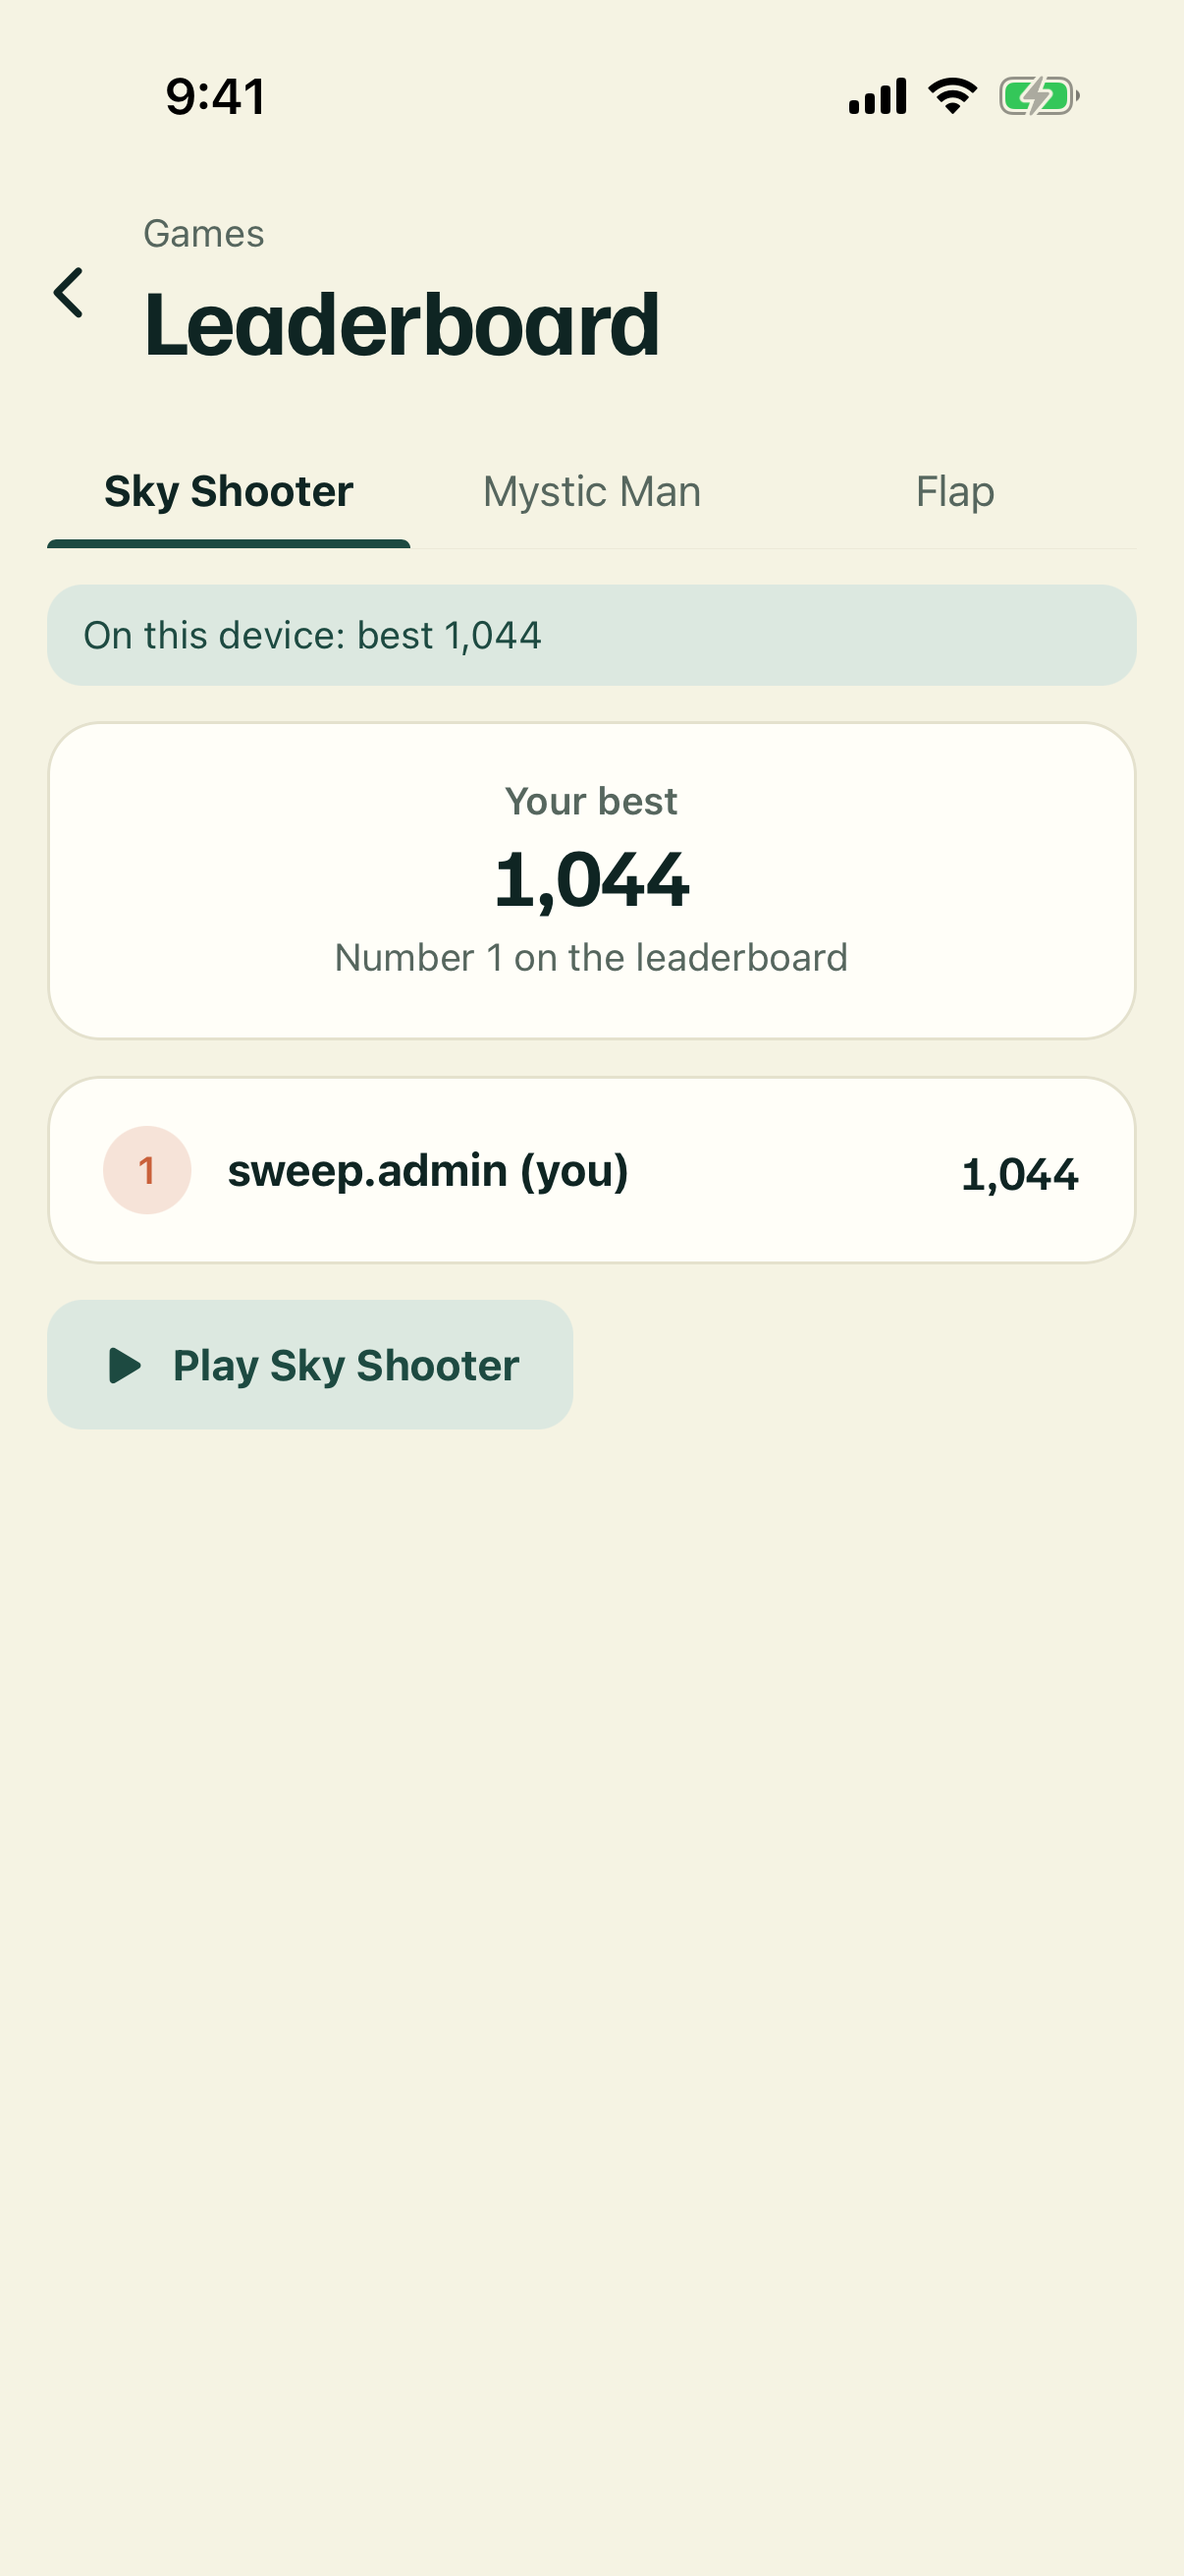
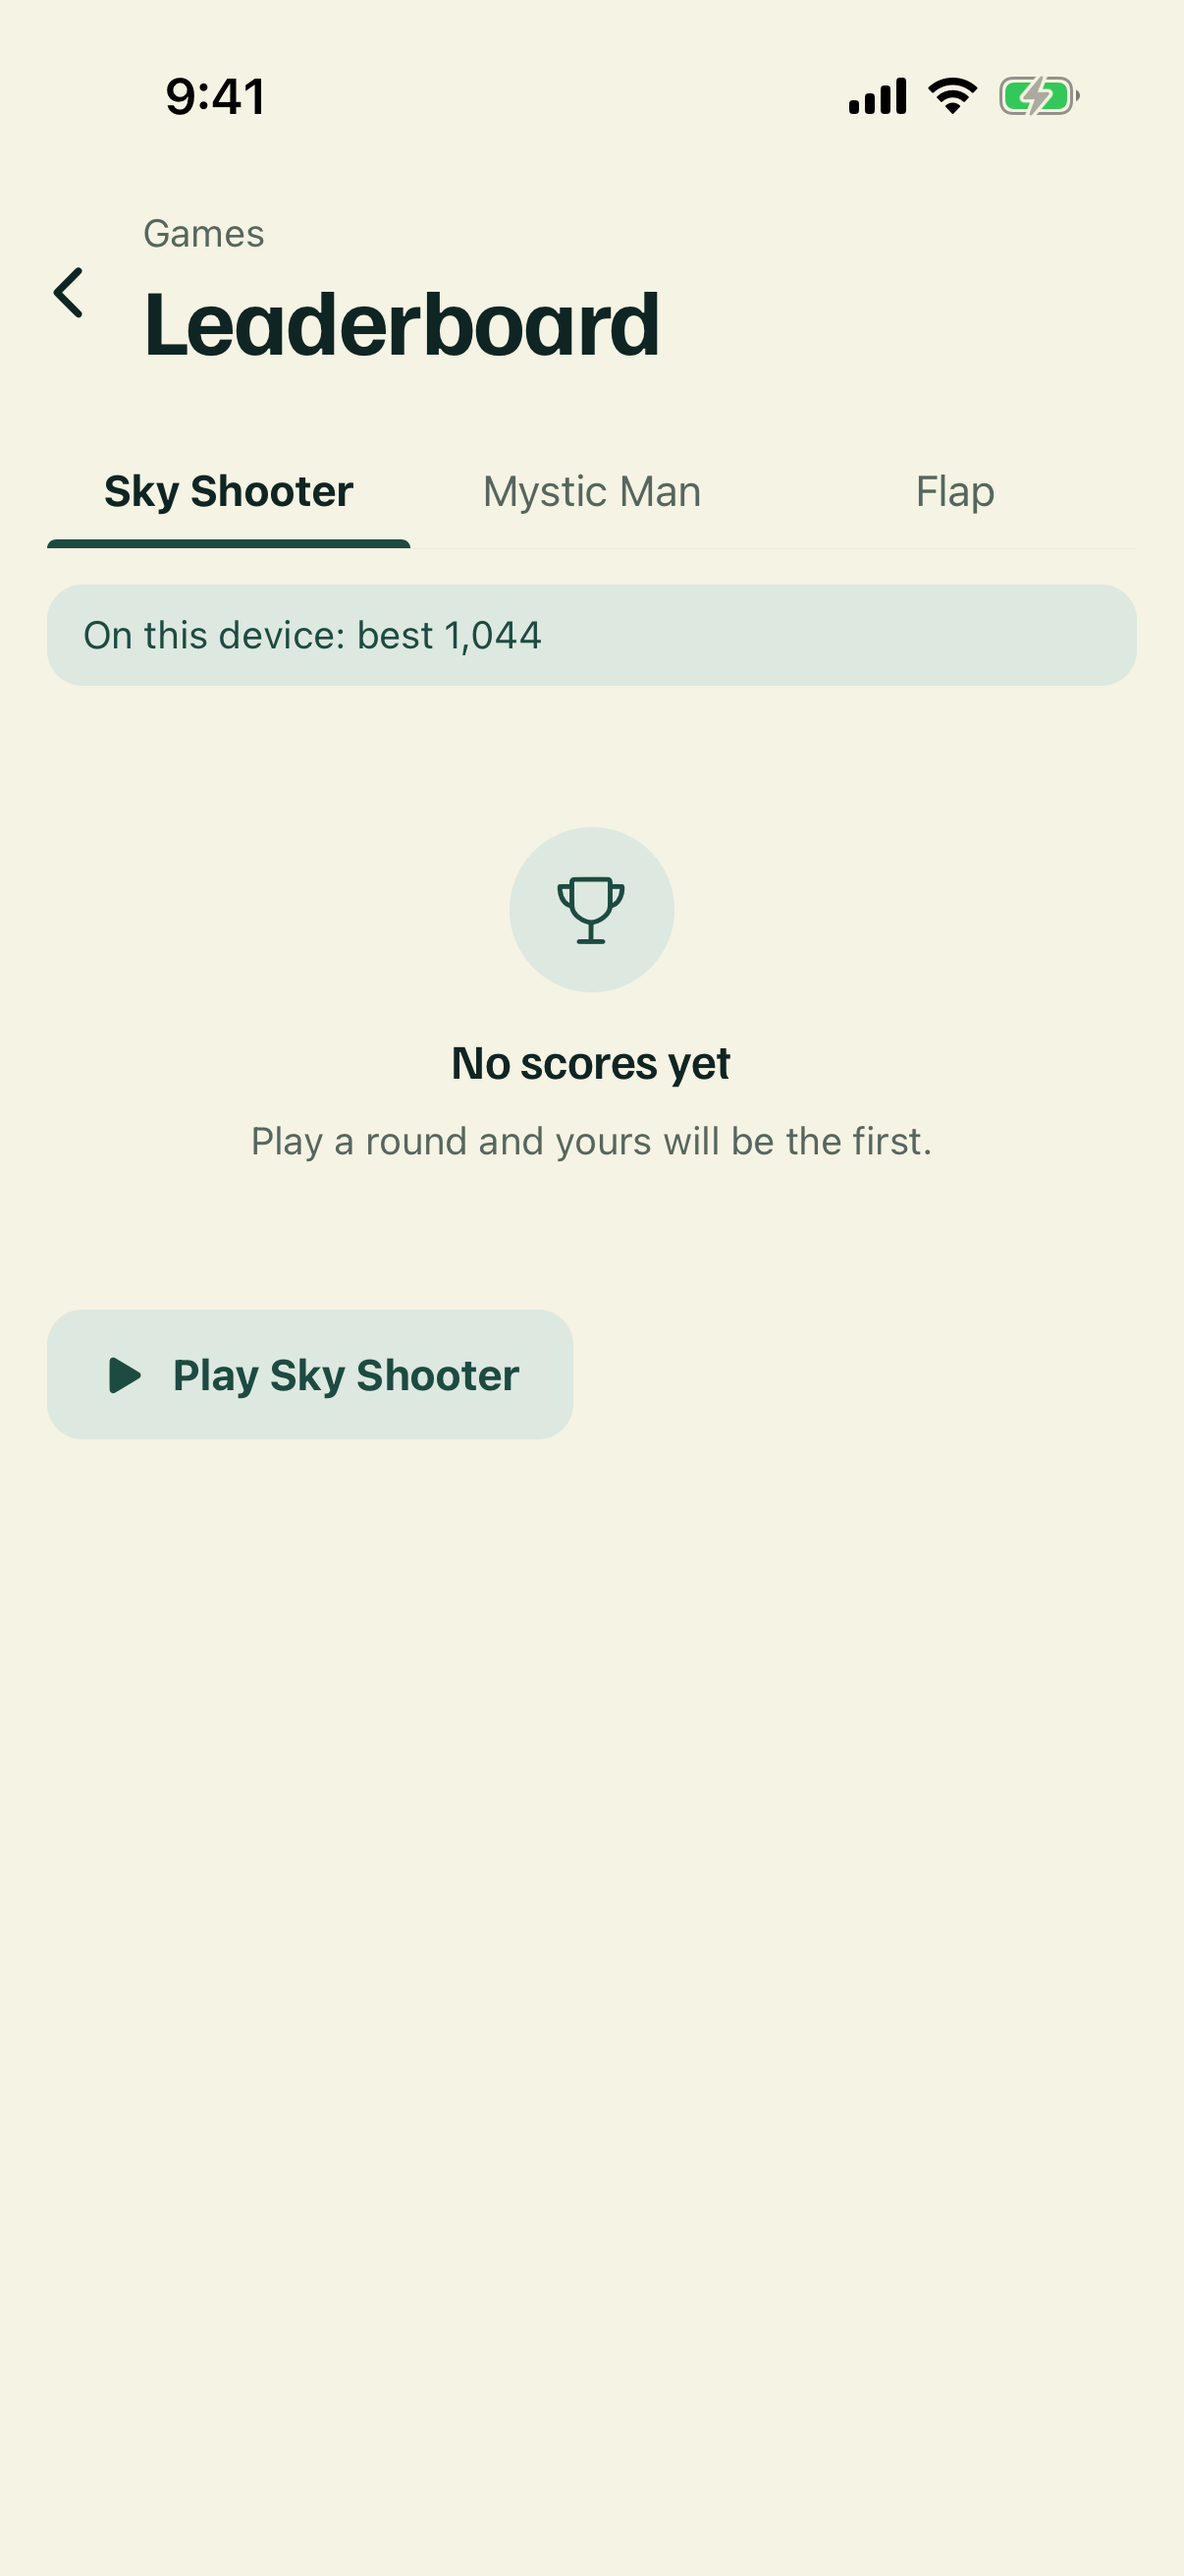
screenshots for feat-offline-games

diff --git a/feat-offline-games/README.md b/feat-offline-games/README.md
@@ -6,18 +6,18 @@
 | --- | --- | --- | --- |
 | base tree | ✔ pass | 0s |  |
 | native fingerprint | ✔ pass | 3s | unchanged on iOS and Android: over-the-air updates reach current builds |
-| lint | ✔ pass | 43s |  |
+| lint | ✔ pass | 44s |  |
 | unused code (knip) | ✔ pass | 4s |  |
-| typecheck | ✔ pass | 13s |  |
+| typecheck | ✔ pass | 12s |  |
 | Playwright Chromium | ✔ pass | 1s |  |
 | before: local backend | ✔ pass | 14s | before functions on :3270 |
-| before: web | ⚠ warning | 82s | 16 screens, 12 broken. out     /games                                               BROKEN, 1 console error(s) out     /games/shooter                                       BROKEN, 1 console error(s) out     /games/runner                                        BROKEN, 1 console error(s) out     /games/flappy                                        BROKEN, 1 console error(s) out     /games/leaderboar |
+| before: web | ⚠ warning | 81s | 16 screens, 12 broken. out     /games                                               BROKEN, 1 console error(s) out     /games/shooter                                       BROKEN, 1 console error(s) out     /games/runner                                        BROKEN, 1 console error(s) out     /games/flappy                                        BROKEN, 1 console error(s) out     /games/leaderboar |
 | before: iOS reset | ✔ pass | 1s |  |
-| before: iOS | ✔ pass | 86s | 10 screenshots, every one settled |
+| before: iOS | ✔ pass | 73s | 10 screenshots, every one settled |
 | after: local backend | ✔ pass | 14s | after functions on :3270 |
 | after: web | ✔ pass | 76s | 16 screens, 0 broken. |
 | after: iOS reset | ✔ pass | 1s |  |
-| after: iOS | ✔ pass | 78s | 10 screenshots, every one settled |
+| after: iOS | ✔ pass | 77s | 10 screenshots, every one settled |
 
 ## Screenshots
 
